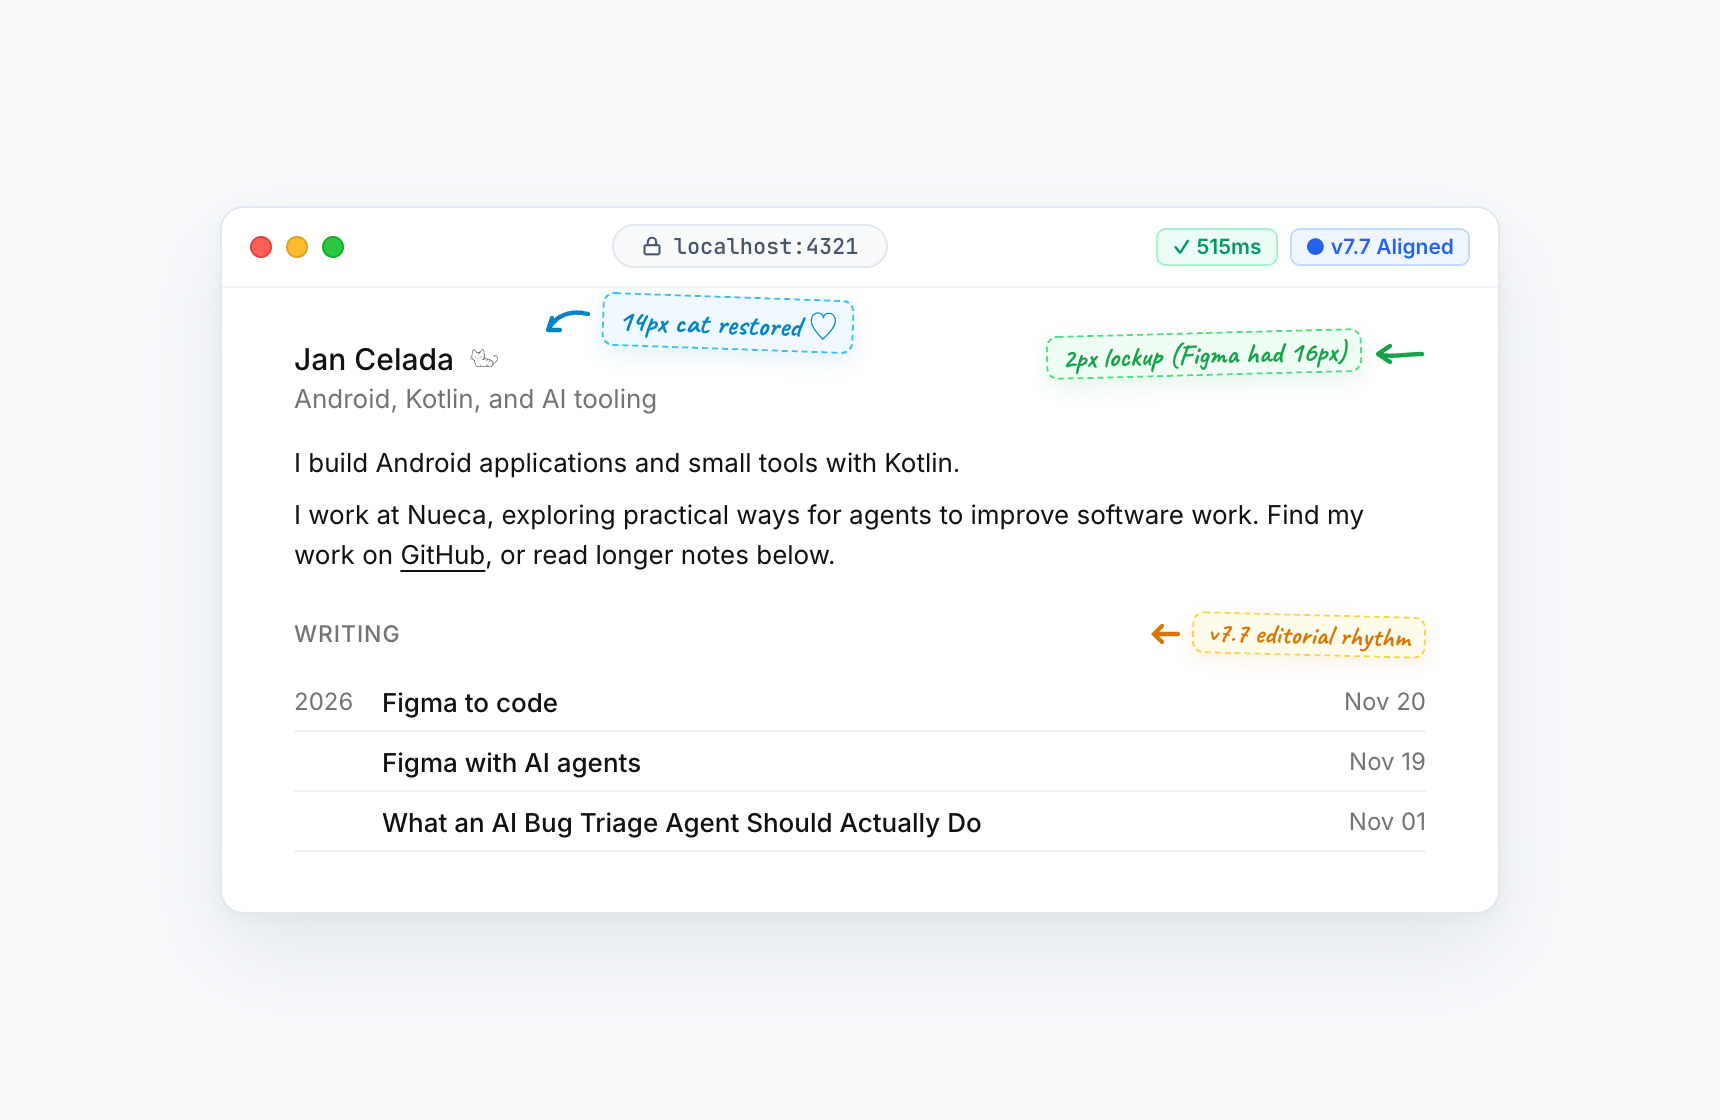
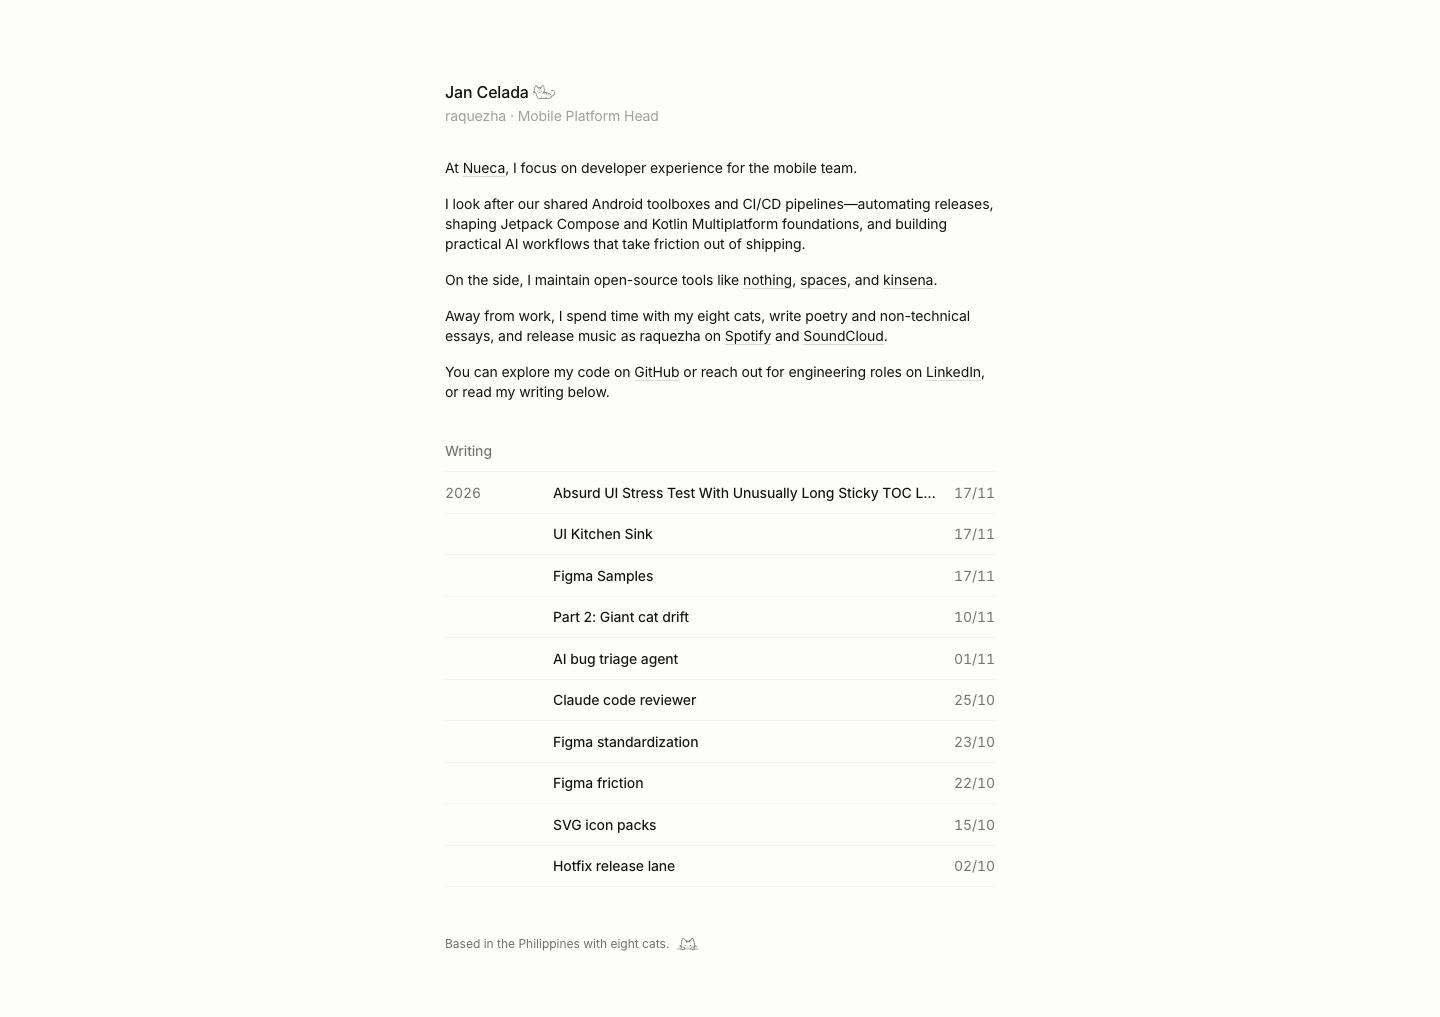
docs: lock image show path and restore historical article figures
Require Preview via Shell open for image display, and replace reconstructed
Figma-to-code figures with cropped historical evidence plus honest captions.

diff --git a/src/content/writing/design-to-code-drift.md b/src/content/writing/design-to-code-drift.md
@@ -31,8 +31,8 @@ The terminal gave me **green checkmarks**: build completed in 515 milliseconds. 
 I opened `localhost:4321`. Instead of my clean minimal header, I got this <img src="/doodle-sweat-smile.svg" width="18" height="18" alt="" aria-hidden="true" class="inline-doodle" />:
 
 <figure>
-  <img src="/images/2026-11-10-site-drift-giant-cat.png" alt="Side by side comparison: Figma header expectation with a 20px cat icon versus Zen browser reality where a 500px cat squished Jan Celada into single letters" />
-  <figcaption>Expectation in Figma versus reality on localhost. That's not a header icon anymore haha.</figcaption>
+  <img src="/images/2026-11-10-site-drift-giant-cat.png" alt="Crops from the historical comparison: Figma expected a 20 by 14 pixel cat icon, while localhost showed a roughly 500 pixel cat that squished Jan Celada into single letters" loading="lazy" decoding="async" />
+  <figcaption>Cropped from the historical comparison: expectation in Figma versus reality on localhost. That's not a header icon anymore haha.</figcaption>
 </figure>
 
 A 500-pixel cat was taking over the screen, and my name was squished into a vertical column of single letters. So yeah, the **code** built fine. The page was another story.
@@ -155,8 +155,8 @@ Checking in the browser also showed me that some things needed changing in Figma
 - Figma put my name, subtitle, and bio in one 16px stack. The subtitle belongs 2px below my name, then 32px before the bio. In this case, the browser check showed me the design needed a fix too.
 
 <figure>
-  <img src="/images/2026-11-17-post-compact-parity.png" alt="Article post with 160px sticky table of contents, 14px back arrow, and syntax-highlighted code block" />
-  <figcaption>Article layout after checking the details in the browser.</figcaption>
+  <img src="/images/2026-11-17-post-compact-parity.png" alt="Historical Kitchen Sink capture showing sticky table of contents, Index back link, inline marks, and a syntax-highlighted code block" loading="lazy" decoding="async" />
+  <figcaption>Historical Kitchen Sink capture after checking the details in the browser.</figcaption>
 </figure>
 
 The site now runs <mark class="lilac">21 Playwright checks</mark>[^5] against the [Kitchen Sink](/writing/kitchen-sink). It throws long identifiers, six-column tables, multi-line highlights, and wordy callouts at the layout to check for horizontal scroll and clipped text at 390px wide.
@@ -169,8 +169,8 @@ What I'd do differently next time:
 - Open the browser after <span class="mark-circle">each</span> small change, not just when the agent says it's done.
 
 <figure>
-  <img src="/images/2026-11-10-site-fixed-home.png" alt="The home page after matching the version 7.7 Figma file with restored 14px cat and aligned layout" />
-  <figcaption>The home page after matching the version 7.7 Figma file, restoring the 14px cat, and fixing the layout rhythm.</figcaption>
+  <img src="/images/2026-11-10-site-fixed-home.png" alt="Historical home page capture after the layout fixes, with the restored cat icon beside Jan Celada and the Writing list aligned" loading="lazy" decoding="async" />
+  <figcaption>Historical home capture after matching the Figma file, restoring the cat icon, and fixing the layout rhythm.</figcaption>
 </figure>
 
 ## Spaces next

diff --git a/AGENTS.md b/AGENTS.md
@@ -17,6 +17,45 @@ Guidelines for agents working in `raquezha/site`.
 - Posts live in `src/content/writing/*.md`. Keep unfinished posts as `status: "draft"` so they are excluded from production builds.
 - `public/images/*` is gitignored by default; explicitly unignore (`!public/images/<asset>`) only media referenced by published posts.
 
+## Showing Images To The User
+
+When the user asks to **see**, **show**, or **compare** images, do not claim they rendered in chat unless the user confirms pixels appeared.
+
+On Cursor↔pi bridge runs, `Read` / `image()` often returns a **text description** of the PNG to the model. Markdown `![](...)` links also do not render local scratch files. Writing “here they are” after a description-only tool result is a lie.
+
+### Required tool call (macOS Preview)
+
+Locate or write the PNG under the repo, then call **Shell** exactly like this (absolute paths):
+
+```text
+Shell
+command: open /Users/raquezha/RQZ/personal/site/scratch/article-figures/side-by-side/fixed-home.png /Users/raquezha/RQZ/personal/site/scratch/article-figures/side-by-side/compact-parity.png
+```
+
+Then tell the user the absolute paths and that Preview should have opened. Ask once whether they can see the images. Do not keep re-calling the same show path hoping chat will suddenly paint pixels.
+
+### Secondary tool calls (inspect only unless the user confirms pixels)
+
+**Read** absolute PNG path — for the agent to inspect composition. Treat the result as a description unless the user says they saw the image:
+
+```text
+Read
+path: /Users/raquezha/RQZ/personal/site/scratch/article-figures/side-by-side/fixed-home.png
+```
+
+**pi__codemode** `tools.read` + `image()` — may attach pixels on some pi surfaces; still not a substitute for Preview on Cursor↔pi bridge:
+
+```js
+const block = await tools.read({ path: "/Users/raquezha/RQZ/personal/site/scratch/article-figures/side-by-side/fixed-home.png" });
+image(block);
+```
+
+If Preview is unavailable: serve a temp copy from the local Astro preview and give a `http://127.0.0.1:4321/...` URL, or paste the absolute path for the user to open.
+
+### Deterministic figure parity
+
+For article-figure parity proofs, also follow `topics/deterministic-media/Deterministic Image Standard.md` in the notes vault: compose historical evidence, do not recreate it, and show side-by-sides with the required `open` Shell tool call above.
+
 ## Footnotes & Typography Conventions
 
 Follow the `benji.org` footnote styling in `public/site.css` (`.post sup` and `.post .footnotes`), which applies globally across all articles:
